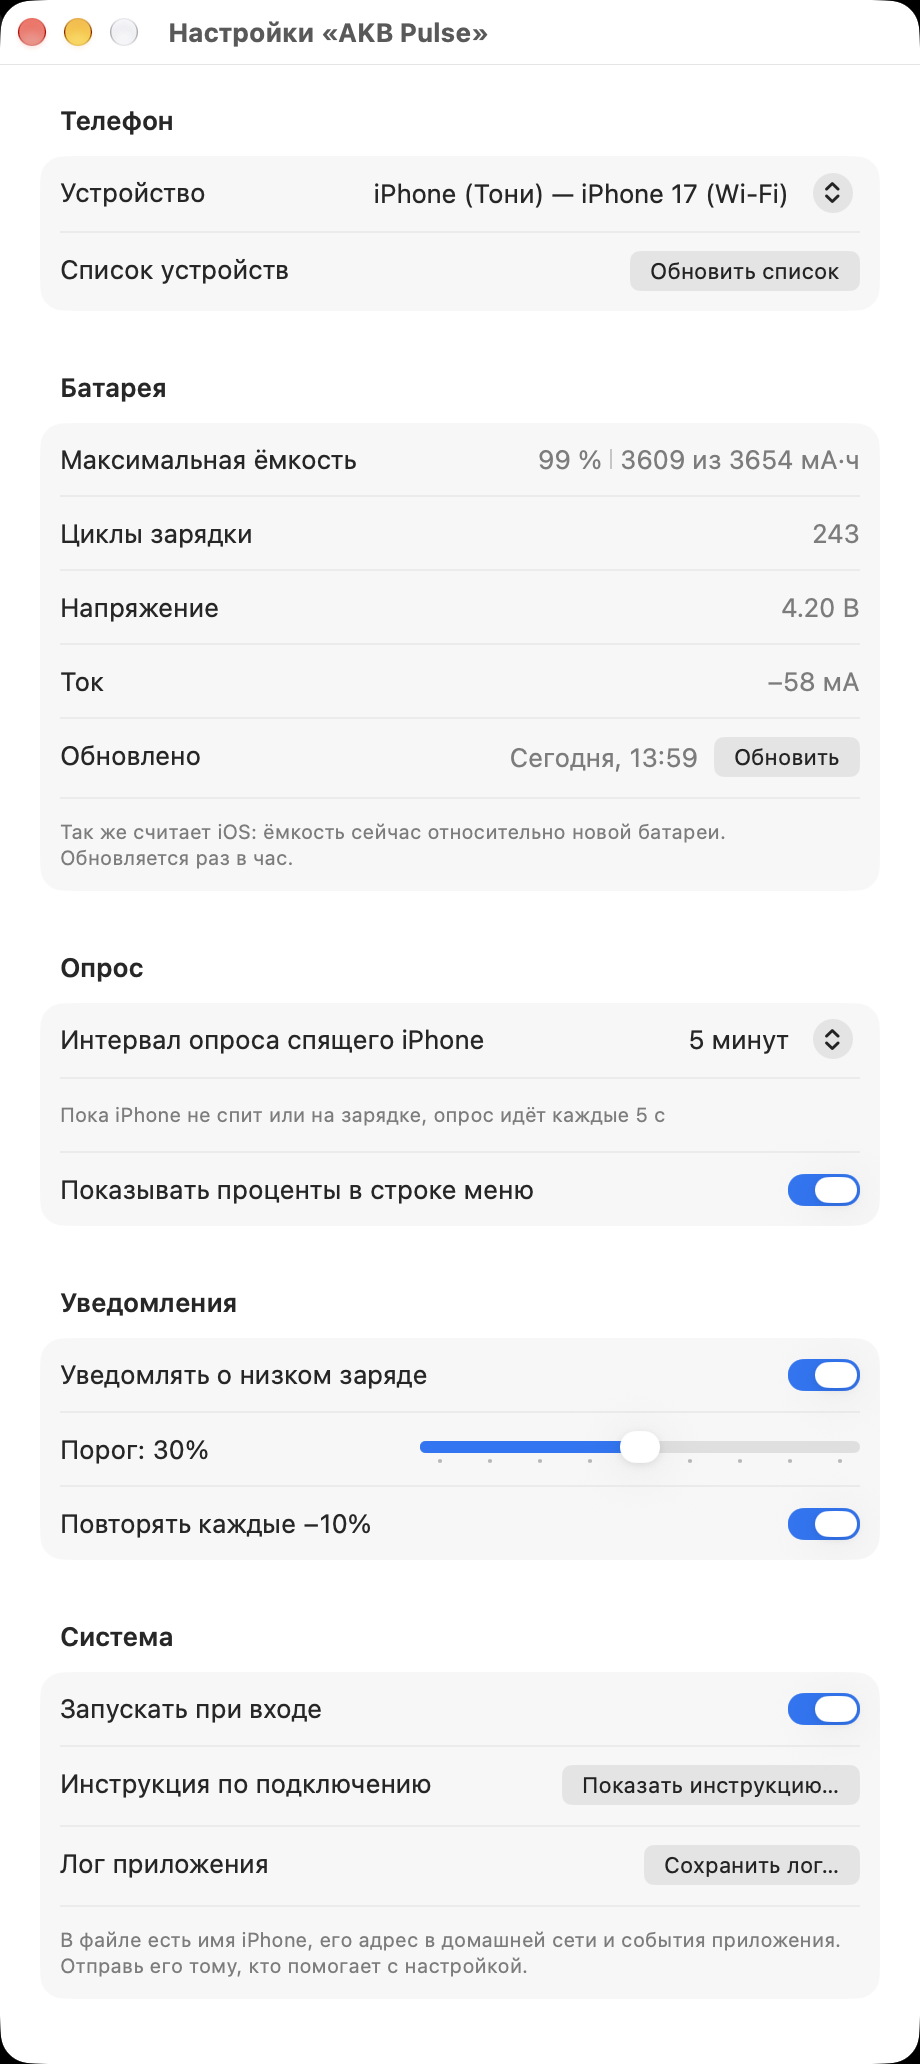
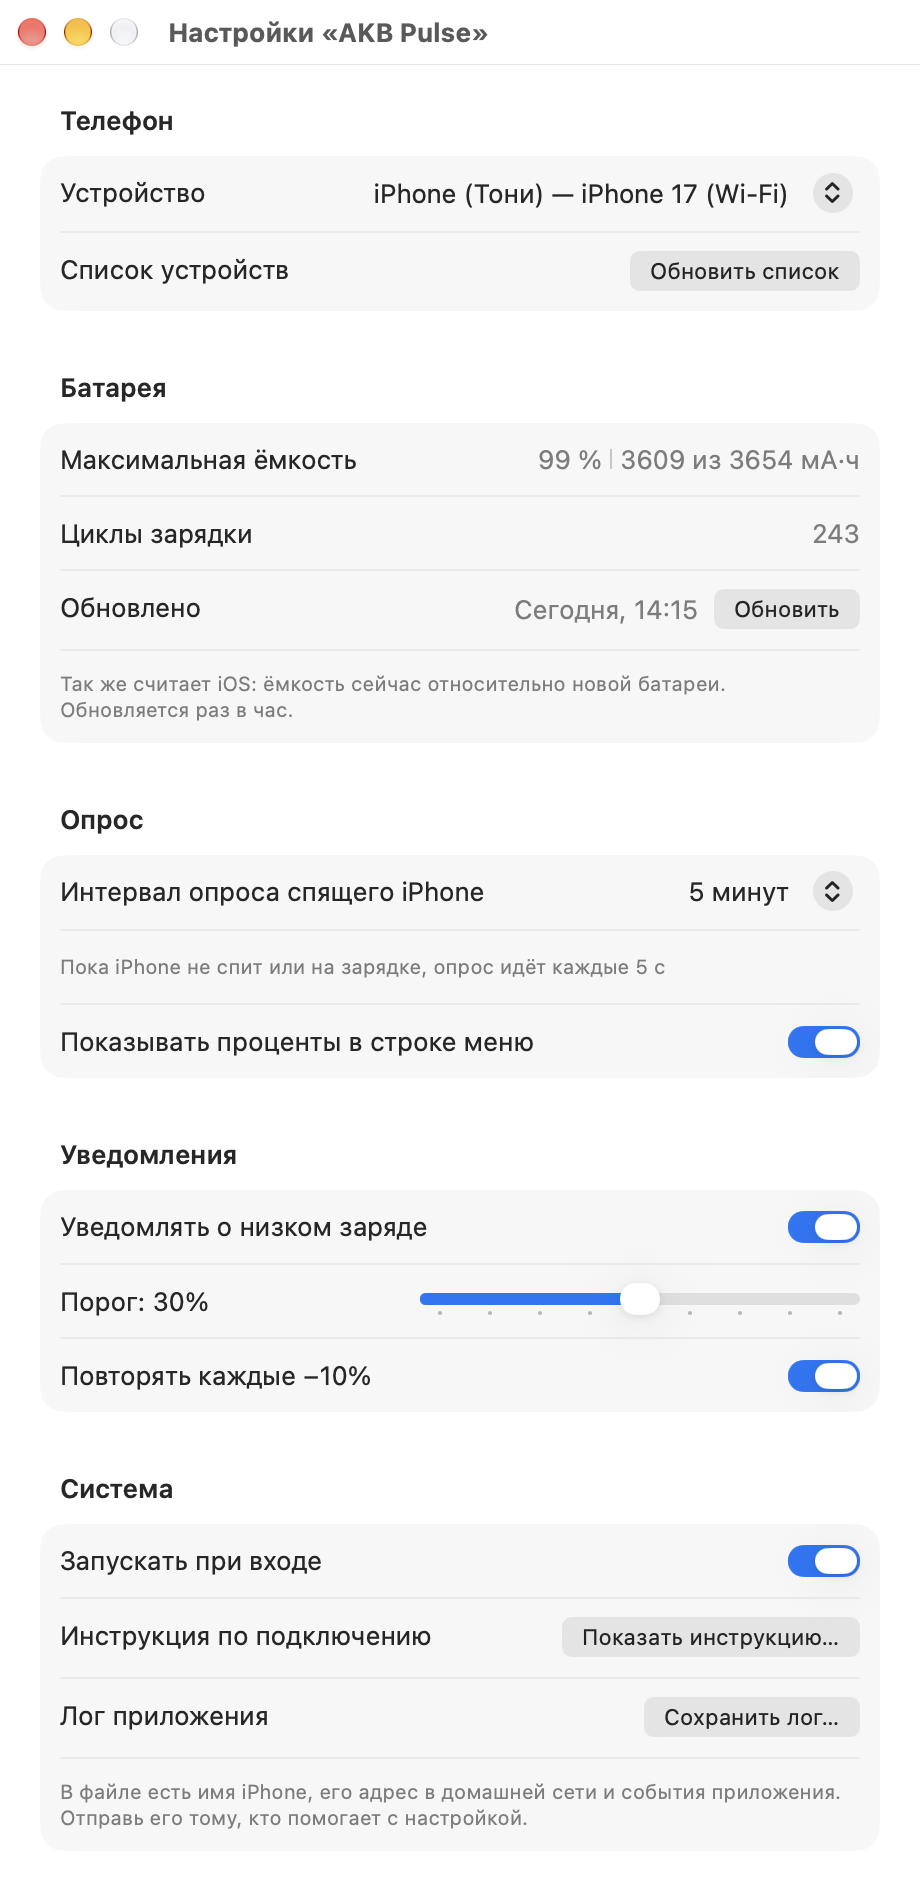
1.3.1: в настройках только ёмкость и циклы — напряжение и ток убраны
Напряжение, ток и температура из раздела «Батарея» ушли: эти цифры
есть в самом телефоне, а в настройках они только шумели. Остались
максимальная ёмкость, циклы зарядки и «Обновлено» с кнопкой.

В модели, парсере и `akb-direct health` поля остались — они ничего
не стоят и помогают при разборе проблем; в комментариях помечено,
что в интерфейсе они не показываются.

diff --git a/Sources/AKB/Views/HealthFormatter.swift b/Sources/AKB/Views/HealthFormatter.swift
@@ -3,11 +3,10 @@ import Foundation
 /// Числа здоровья батареи словами и знаками (план §6.8).
 ///
 /// Вынесено из вида отдельным чистым перечислением: единственный способ проверить
-/// тестами, что запятая, неразрывный пробел и настоящий минус на месте.
+/// тестами, что запятая и неразрывный пробел на месте.
 /// Локаль передаётся явно — иначе тест зависел бы от настроек Mac.
 ///
-/// Единицы («В», «мА», «°C») даёт `MeasurementFormatter` по этой же локали,
-/// а слова вокруг чисел («из», «мА·ч») — обычная локализация приложения.
+/// Слова вокруг чисел («из», «мА·ч», «цикла») даёт обычная локализация приложения.
 enum HealthFormatter {
 
     /// «3609 из 3654 мА·ч» — сколько держит батарея сейчас против новой.
@@ -15,25 +14,6 @@ enum HealthFormatter {
         String(format: L("health.capacity.line", "%1$@ из %2$@ мА·ч"),
                integer(health.nominalCapacity, locale: locale),
                integer(health.designCapacity, locale: locale))
-    }
-
-    /// «4,20 В» / «4.20 V». На входе милливольты, как их отдаёт телефон.
-    static func voltage(_ millivolts: Int, locale: Locale = .current) -> String {
-        measurement(Measurement(value: Double(millivolts) / 1000,
-                                unit: UnitElectricPotentialDifference.volts),
-                    locale: locale, fractionDigits: 2)
-    }
-
-    /// «−58 мА»: минус настоящий (U+2212), а не дефис.
-    static func amperage(_ milliamps: Int, locale: Locale = .current) -> String {
-        measurement(Measurement(value: Double(milliamps), unit: UnitElectricCurrent.milliamperes),
-                    locale: locale, fractionDigits: 0)
-    }
-
-    /// «28,5 °C». iPhone 17 температуру не отдаёт, но если отдаст — покажем.
-    static func temperature(_ celsius: Double, locale: Locale = .current) -> String {
-        measurement(Measurement(value: celsius, unit: UnitTemperature.celsius),
-                    locale: locale, fractionDigits: 1)
     }
 
     /// «99 %» — неразрывный пробел перед знаком, чтобы процент не уехал на строку ниже.
@@ -55,18 +35,6 @@ enum HealthFormatter {
 
     // MARK: - Внутреннее
 
-    private static func measurement(_ value: Measurement<some Dimension>,
-                                    locale: Locale,
-                                    fractionDigits: Int) -> String {
-        let formatter = MeasurementFormatter()
-        formatter.locale = locale
-        // .providedUnit: милливольты нам самим не нужны, а фунты и Фаренгейт — тем более.
-        formatter.unitOptions = [.providedUnit]
-        formatter.unitStyle = .medium
-        formatter.numberFormatter = numberFormatter(locale: locale, fractionDigits: fractionDigits)
-        return formatter.string(from: value)
-    }
-
     private static func numberFormatter(locale: Locale, fractionDigits: Int) -> NumberFormatter {
         let formatter = NumberFormatter()
         formatter.locale = locale
@@ -74,7 +42,7 @@ enum HealthFormatter {
         formatter.usesGroupingSeparator = false
         formatter.minimumFractionDigits = fractionDigits
         formatter.maximumFractionDigits = fractionDigits
-        // CLDR по умолчанию даёт дефис; в тексте о токе нужен знак минуса.
+        // CLDR по умолчанию даёт дефис; для отрицательных чисел нужен настоящий минус.
         formatter.minusSign = "\u{2212}"
         return formatter
     }

diff --git a/Sources/AKB/Views/SettingsView.swift b/Sources/AKB/Views/SettingsView.swift
@@ -19,10 +19,10 @@ struct SettingsView: View {
     @State private var isSavingLog = false
 
     /// Высота окна настроек. Считается один раз за запуск: на MacBook без
-    /// внешнего монитора 1000 pt не влезает, окно уехало бы за нижний край.
+    /// внешнего монитора 916 pt не влезает, окно уехало бы за нижний край.
     /// 40 pt — запас на заголовок окна и поля вокруг него.
     @MainActor
-    private static let windowHeight: CGFloat = min(1000, (NSScreen.main?.visibleFrame.height ?? 1000) - 40)
+    private static let windowHeight: CGFloat = min(916, (NSScreen.main?.visibleFrame.height ?? 916) - 40)
 
     var body: some View {
         Form {
@@ -33,7 +33,7 @@ struct SettingsView: View {
             systemSection
         }
         .formStyle(.grouped)
-        // Все разделы разом занимают 1000 pt, и столько окну дают только на
+        // Все разделы разом занимают 916 pt, и столько окну дают только на
         // большом экране. Если экран ниже — окно ужимается по нему, а `Form`
         // в стиле `.grouped` прокручивается до нижней подписи (план §6.8).
         .frame(width: 460, height: Self.windowHeight)
@@ -91,9 +91,9 @@ struct SettingsView: View {
 
     // MARK: - Батарея (план §6.8)
 
-    /// Здоровье батареи: те же цифры, что в iOS «Настройки → Батарея → Состояние»,
-    /// плюс напряжение и ток. Серийного номера батареи здесь нет — помощник его
-    /// не читает вовсе.
+    /// Здоровье батареи: те же цифры, что в iOS «Настройки → Батарея → Состояние».
+    /// Напряжение, ток и температуру не показываем — они и так есть в телефоне.
+    /// Серийного номера батареи здесь нет — помощник его не читает вовсе.
     @ViewBuilder
     private var batterySection: some View {
         Section(L("settings.battery", "Батарея")) {
@@ -109,20 +109,6 @@ struct SettingsView: View {
 
                 LabeledContent(L("settings.health.cycles", "Циклы зарядки"),
                                value: HealthFormatter.integer(health.cycleCount))
-
-                if let voltage = health.voltage {
-                    LabeledContent(L("settings.health.voltage", "Напряжение"),
-                                   value: HealthFormatter.voltage(voltage))
-                }
-                if let amperage = health.amperage {
-                    LabeledContent(L("settings.health.amperage", "Ток"),
-                                   value: HealthFormatter.amperage(amperage))
-                }
-                // iPhone 17 температуру не отдаёт; строка появится, если отдаст.
-                if let temperature = health.temperature {
-                    LabeledContent(L("settings.health.temperature", "Температура"),
-                                   value: HealthFormatter.temperature(temperature))
-                }
 
                 LabeledContent(L("settings.health.updated", "Обновлено")) {
                     HStack(spacing: 8) {

diff --git a/Tests/AKBTests/BatteryHealthTests.swift b/Tests/AKBTests/BatteryHealthTests.swift
@@ -244,26 +244,6 @@ struct HealthPrefsTests {
 struct HealthFormatterTests {
 
     private let ru = Locale(identifier: "ru_RU")
-    private let en = Locale(identifier: "en_US")
-
-    @Test("Напряжение: два знака после запятой и единица по локали")
-    func voltage() {
-        #expect(HealthFormatter.voltage(4197, locale: ru) == "4,20 В")
-        #expect(HealthFormatter.voltage(4197, locale: en) == "4.20 V")
-    }
-
-    @Test("Ток: настоящий минус, а не дефис")
-    func amperage() {
-        #expect(HealthFormatter.amperage(-58, locale: ru) == "\u{2212}58 мА")
-        #expect(HealthFormatter.amperage(-58, locale: ru).contains("-") == false)
-        #expect(HealthFormatter.amperage(120, locale: ru) == "120 мА")
-    }
-
-    @Test("Температура: одна цифра после запятой, градус не отрывается от числа")
-    func temperature() {
-        // Между числом и «°C» система ставит неразрывный пробел — так и надо.
-        #expect(HealthFormatter.temperature(28.5, locale: ru) == "28,5\u{00A0}°C")
-    }
 
     @Test("Ёмкость: «3609 из 3654 мА·ч», без разделителя тысяч")
     func capacity() {

diff --git a/Sources/AKB/Model/BatteryHealth.swift b/Sources/AKB/Model/BatteryHealth.swift
@@ -18,11 +18,12 @@ struct BatteryHealth: Sendable, Equatable, Hashable, Codable {
     var nominalCapacity: Int
     /// Ещё одна оценка полной ёмкости, мА·ч (`FullChargeCapacity`).
     var fullChargeCapacity: Int?
-    /// Напряжение, мВ.
+    /// Напряжение, мВ. В интерфейсе не показывается — остаётся для лога и разбора проблем.
     var voltage: Int?
-    /// Ток, мА. Минус — разряд.
+    /// Ток, мА. Минус — разряд. В интерфейсе не показывается.
     var amperage: Int?
     /// Температура, °C. На iOS 26 телефон её не отдаёт — обычно nil.
+    /// В интерфейсе не показывается.
     var temperature: Double?
     /// Минут до разряда. nil, если телефон ответил «не знаю» (65535) или числом ≤ 0.
     var timeRemaining: Int?

diff --git a/PLAN.md b/PLAN.md
@@ -461,3 +461,4 @@ AKB/
 - Новые файлы: `Model/BatteryHealth.swift`, `Views/HealthFormatter.swift` (чистое форматирование чисел с явной локалью, покрыто тестами). Плюс `IMobileDeviceOutputParser.health`, `Prefs.health/setHealth`, `BatteryProvider.health`, `BatteryMonitor.healthIsDue/refreshHealth`, строка здоровья в шапке отчёта для поддержки.
 - Проверка: `akb-direct health 192.168.1.11 <UDID>` на живом телефоне обоими путями; фейковый режим с `AKB_FAKE_NO_HEALTH=1` — раздел без данных; реальный прогон, в логе `здоровье 99% (3609/3654 мА·ч), 243 циклов, путём direct`. Тесты 213 → 252.
 - Версия по правилу §22: `MARKETING_VERSION` 1.3, `CURRENT_PROJECT_VERSION` 4, `make-dmg.sh` → `dist/AKB-Pulse-1.3.dmg`.
+- 1.3.1: напряжение и ток из настроек убраны по просьбе пользователя.
